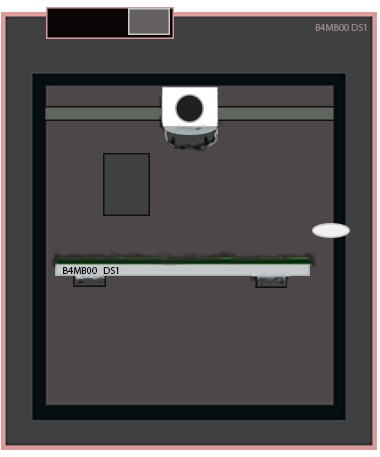
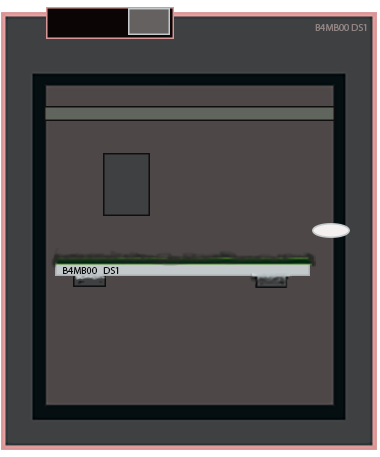
Halfway into implementing printerhead animation

Changed region(s): [[0.4053, 0.1838, 0.5789, 0.337]]

diff --git a/src/gui.py b/src/gui.py
@@ -5,24 +5,49 @@ import tkinter as tk
 __location__ = os.path.realpath(os.path.dirname(__file__))
 # https://stackoverflow.com/questions/70996098/tkinter-button-over-transparent-background
 #TBD
-class CanvasButton():
-    flash_delay = 100
+class Clicker_Button():
+    clicker_animation_delay = 100
     def __init__(self, canvas: tk.Canvas, image: tk.Image, x: int, y: int, **kwargs):
         self.canvas = canvas
         self.x = x
         self.y = y
         self.image: int = self.canvas.create_image(x, y, image=image)
+
     def on_click(self, fn):
         self.canvas.tag_bind(self.image, "<ButtonRelease-1>",
-            lambda event: (self.flash(), fn()))
+            lambda event: (self.clicker_flash(), fn()))
+        
     # Button animation function
-    def flash(self):
-        #self.set_state(tk.HIDDEN)
-        self.canvas.move(self.image, -10, 0)
-        self.canvas.after(self.flash_delay, self.set_state, tk.NORMAL)
-    def set_state(self, state):
-        self.canvas.move(self.image, 10, 0)
+    def clicker_flash(self):
+        self.canvas.move(self.image, 0, -5)
+        self.canvas.after(self.clicker_animation_delay, self.set_state)
 
+    def set_state(self):
+        self.canvas.move(self.image, 0, 5)
+
+class Print_Head():
+    print_head_animation_delay = 10
+    def __init__(self, canvas: tk.Canvas, image: tk.Image, x: int, y: int, **kwargs):
+        self.canvas = canvas
+        self.x = x
+        self.y = y
+        self.image: int = self.canvas.create_image(x, y, image=image)
+
+    def go_right(self):
+        self.canvas.move(self.image, 1, 0)
+        self.animation_offset += 1
+        if self.animation_offset < 10:
+            self.canvas.after(self.print_head_animation_delay, self.go_right)
+        else:
+            self.go_left
+
+    def go_left(self):
+        self.canvas.move(self.image, -1, 0)
+        self.animation_offset -= 1
+        if self.animation_offset > 0:
+            self.canvas.after(self.print_head_animation_delay, self.go_left)
+        else:
+            self.animation_ongoing = False
 
 # The main clicker itself
 class Main_GUI:
@@ -33,11 +58,10 @@ class Main_GUI:
         self.root.title("内内个内个内个内个内个内内")
 
         # Assets
-        # All of these are placeholder
         self.GFX_main_clicker = tk.PhotoImage(file=os.path.join(__location__, os.pardir, 'assets', 'sutdCoin100.png'))
         self.GFX_printer = tk.PhotoImage(file=os.path.join(__location__, os.pardir, 'assets', 'pixelPrinter.png'))
-        self.GFX_background = tk.PhotoImage(file=os.path.join(__location__, os.pardir, 'assets', 'background.png'))
-
+        # self.GFX_printer_head = tk.PhotoImage(file=os.path.join(__location__, os.pardir, 'assets', 'pixelPrinterHead.png'))
+        self.GFX_background = tk.PhotoImage(file=os.path.join(__location__, os.pardir, 'assets', 'background.png')) # TODO: Replace Placeholder
 
         # Code
         self.background = tk.Canvas(width=900, height=600)
@@ -46,7 +70,8 @@ class Main_GUI:
 
         self.background.place(x=0, y=0)
 
-        self.clicker = CanvasButton(self.background, self.GFX_main_clicker, 450, 300)
+        self.clicker = Clicker_Button(self.background, self.GFX_main_clicker, 450, 280)
+        # self.printer_head = Print_Head(self.background, self.GFX_printer_head, 450, 280)
         # Total
         self.score = tk.IntVar()
         self.counter = tk.Label(textvariable=self.score, font=("Arial", 20), background="grey", foreground="white", width=5)
@@ -57,10 +82,13 @@ class Main_GUI:
         self.counter = tk.Label(textvariable=self.ppc_display, font=("Arial", 14), background="grey", foreground="white", width=17)
         self.counter.place(x=354, y=410)
         
-        # Prints per click
+        # Prints per second
         self.pps_display = tk.StringVar()
         self.counter = tk.Label(textvariable=self.pps_display, font=("Arial", 12), background="grey", foreground="white", width=17)
         self.counter.place(x=370, y=440)
+
+        self.animation_offset = 0
+        self.animation_ongoing = False
 
     def mainloop(self):
         self.root.mainloop()

diff --git a/src/game.py b/src/game.py
@@ -75,6 +75,7 @@ class GameController:
         self.score += self.prints_per_click
         self.gui.ppc_display.set(f"Prints per click: {self.prints_per_click}")
         self.gui.score.set(self.score)
+        # self.gui.animation_check()
 
     def get_powerup(self, powerup: Powerups):
         self.powerups[powerup] += 1
